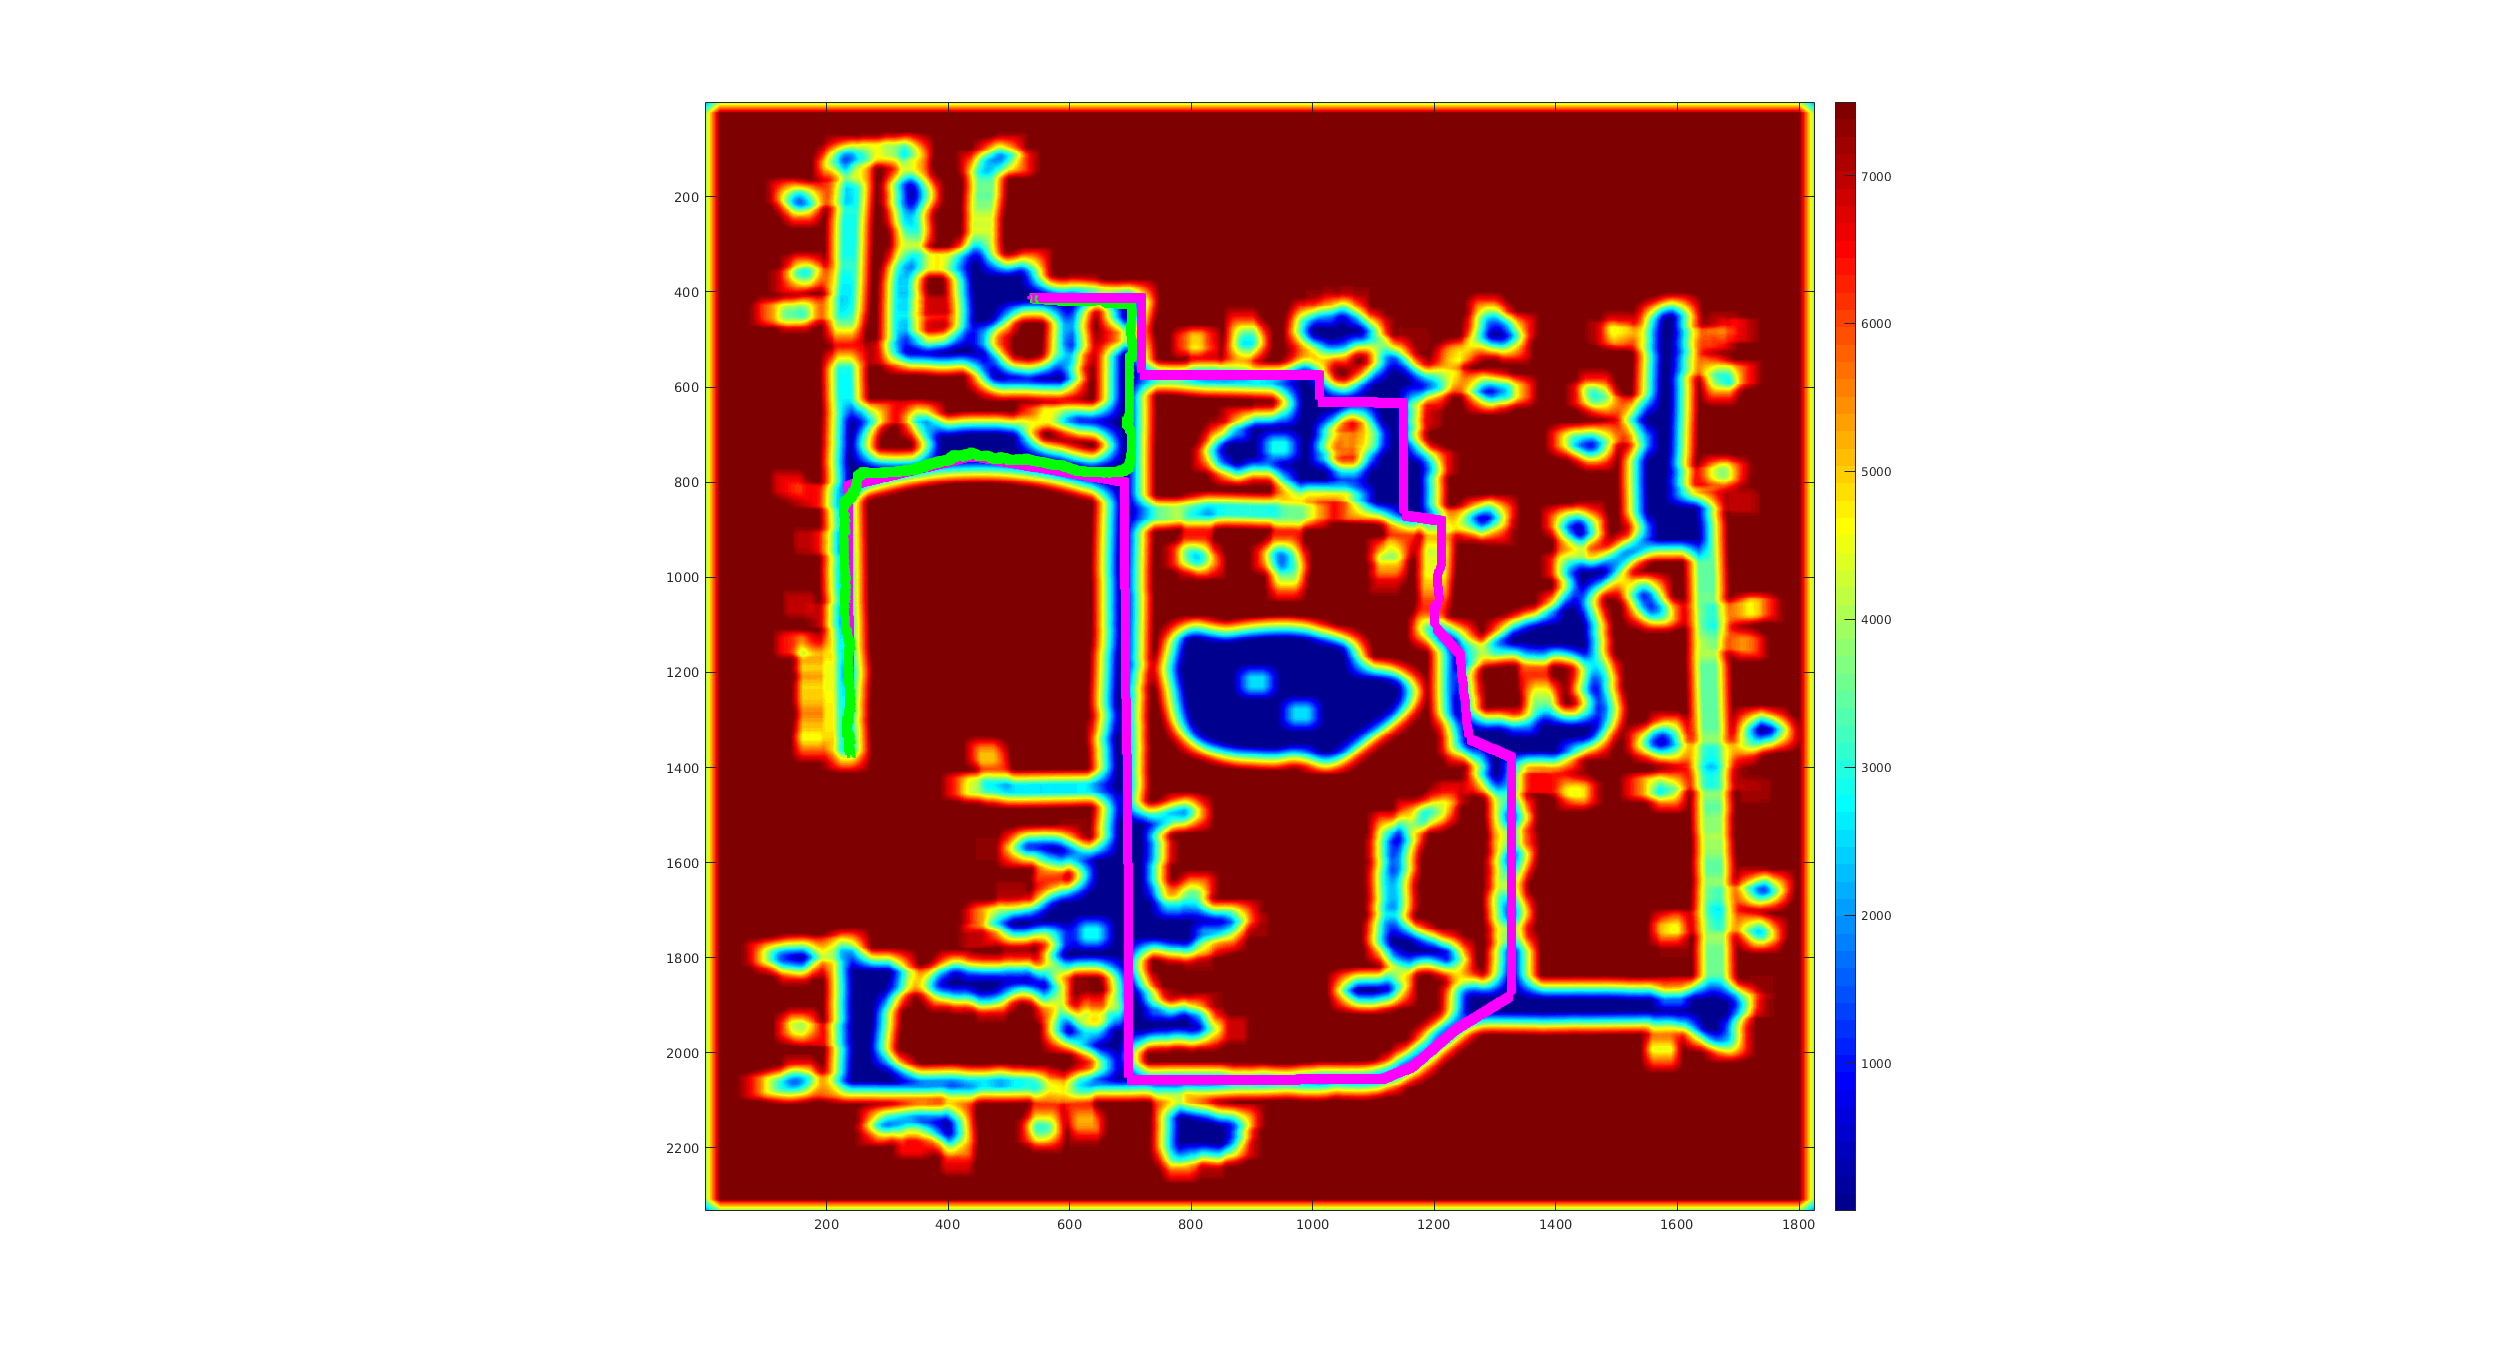
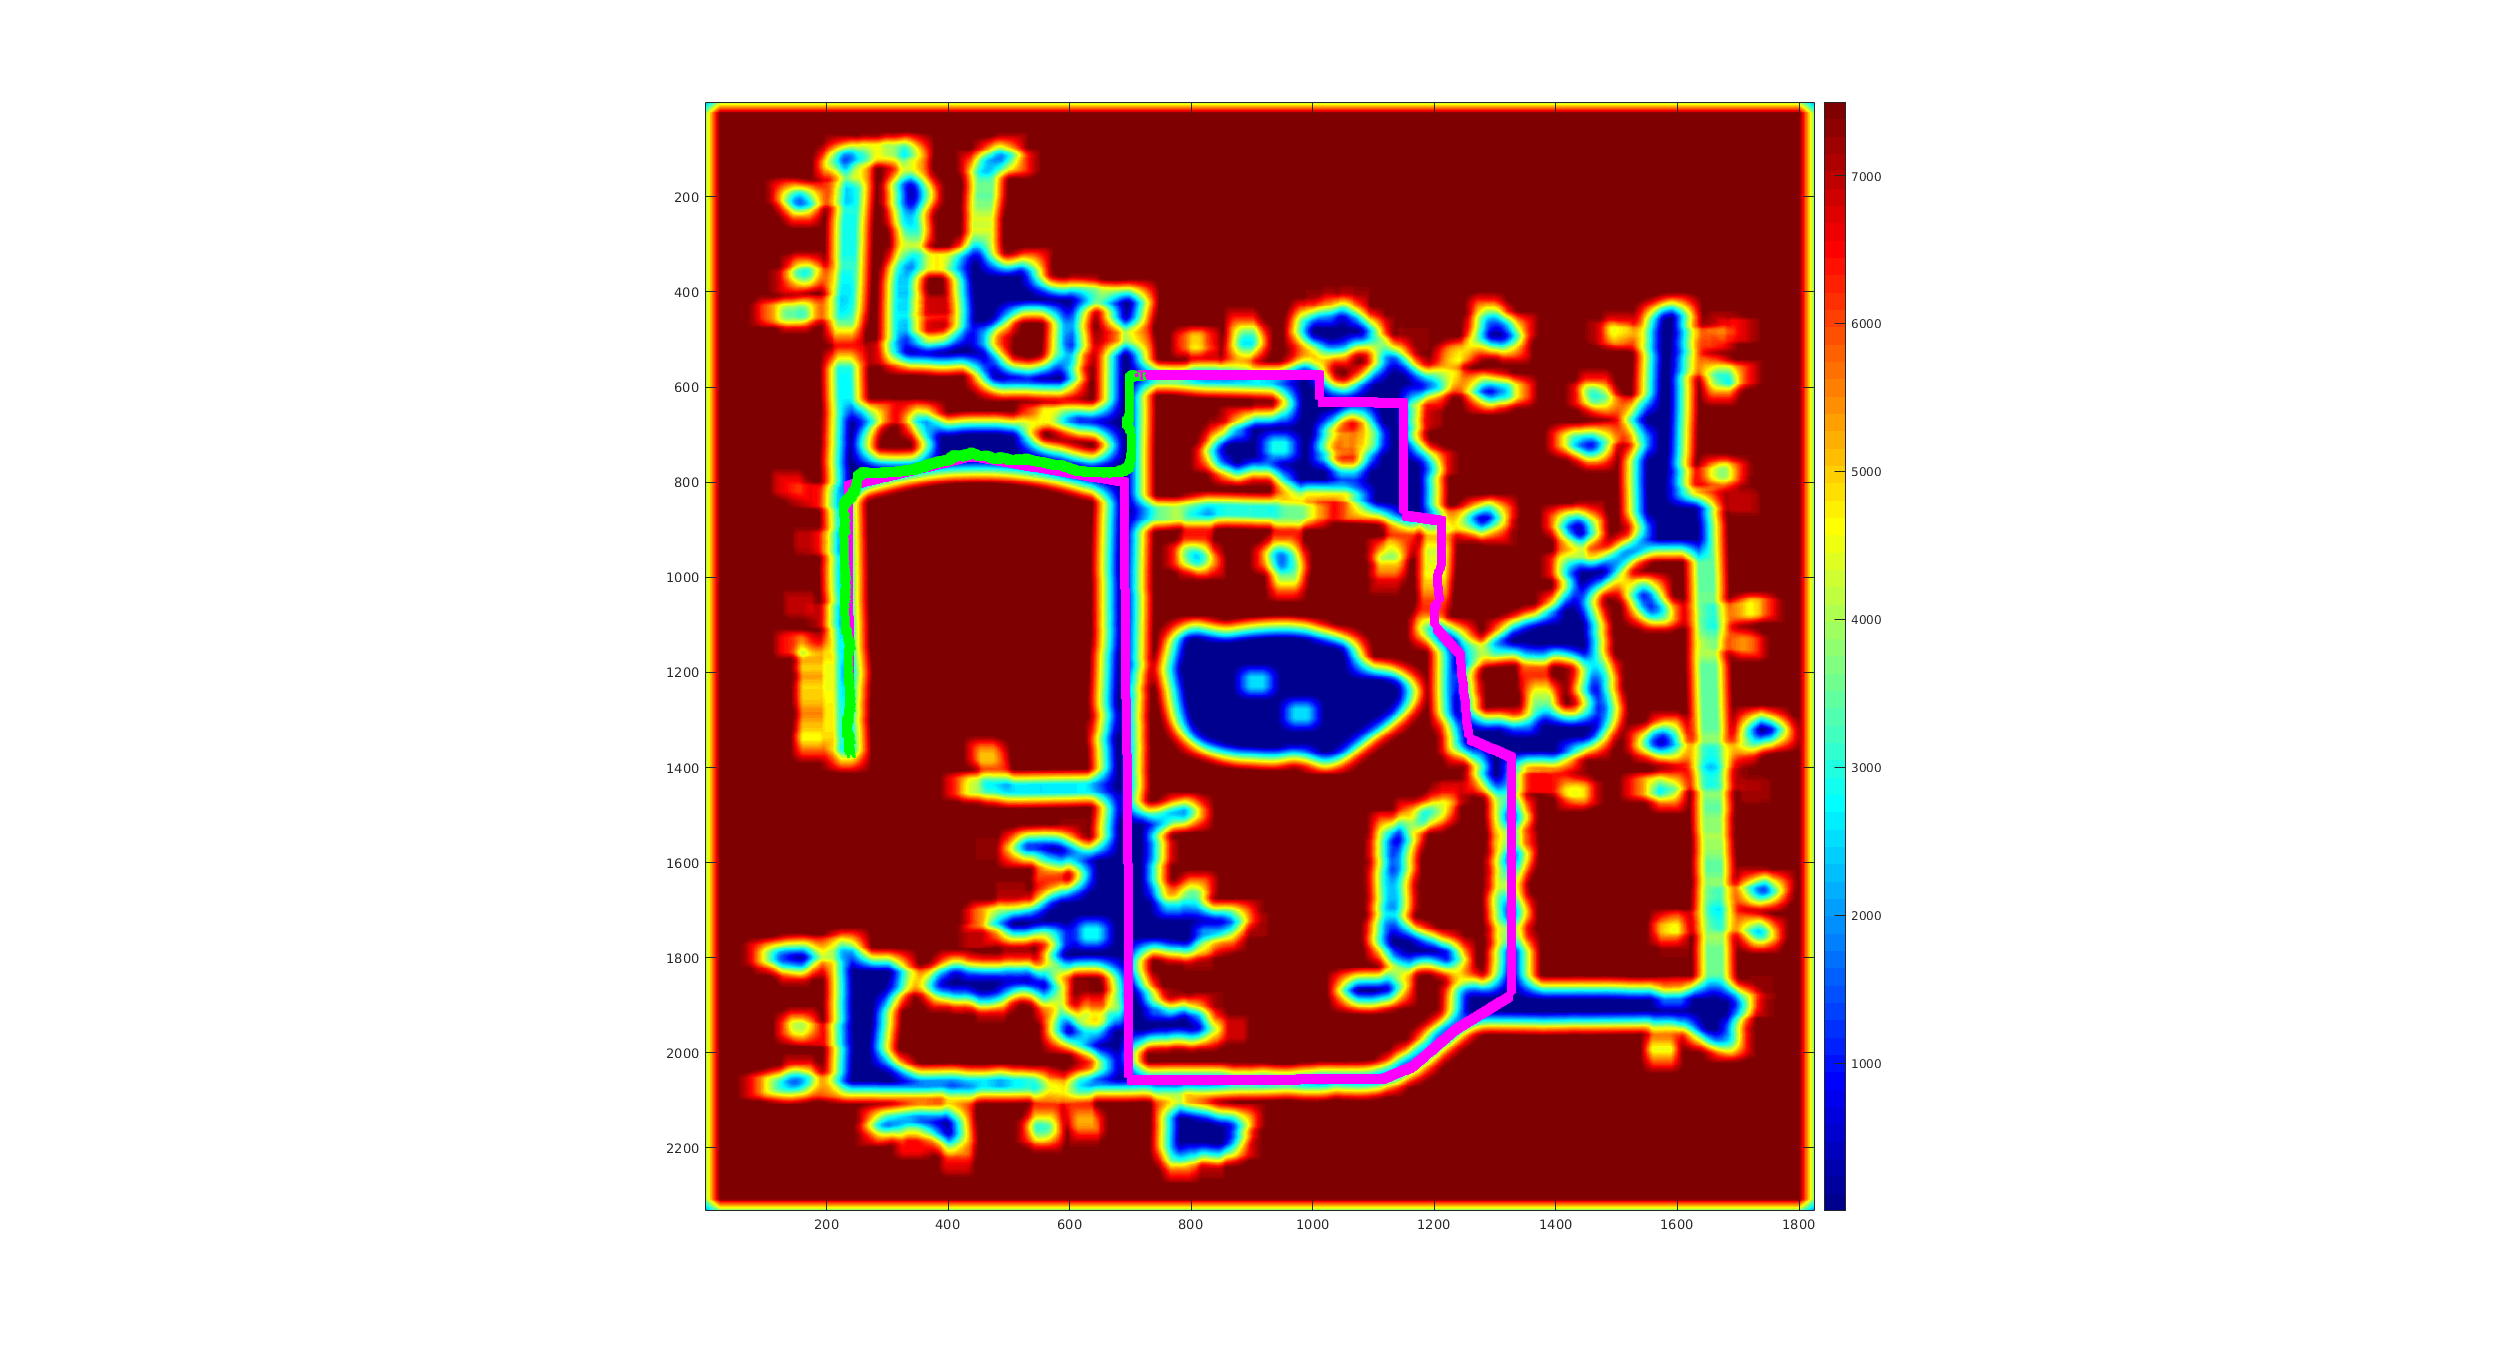
Optimize waiting position to be the lowest cost cell

Changed region(s): [[0.7098, 0.0617, 0.7715, 0.8949], [0.4012, 0.216, 0.4629, 0.2777]]

diff --git a/planner.cpp b/planner.cpp
@@ -61,7 +61,8 @@ static void planner(
     int target_y = targetposeY - 1;
 
     static Dijkstra dijkstra;
-    static std::vector<std::pair<int, int>> best_path;
+    static Dijkstra::Path best_path;
+    // static std::vector<std::pair<int, int>> best_path;
 
     if (!dijkstra.isInitialized()) {
         // run this for once only, in the very beginning
@@ -78,13 +79,13 @@ static void planner(
 
         // load the targe trajectory
         std::vector<std::pair<int, int>> target_trajectory;
-        mexPrintf("Target steps: %d\n", target_steps);
+        // mexPrintf("Target steps: %d\n", target_steps);
         for (int i=0; i<target_steps; ++i) {
             int x = (int) target_traj[i] - 1;
             int y = (int) target_traj[i + target_steps] - 1;
             target_trajectory.push_back(std::make_pair(x, y));
         }
-        mexPrintf("Trajectory size: %d\n", target_trajectory.size());
+        // mexPrintf("Trajectory size: %d\n", target_trajectory.size());
 
         dijkstra.initTargetTrajectory(target_trajectory);
         mexPrintf("Target trajectory size: %d\n", dijkstra.target_trajectory.size());
@@ -95,23 +96,82 @@ static void planner(
 
         dijkstra.search();
 
-        mexPrintf("Evaluated path size: %d\n", dijkstra.evaluated_paths.size());
-        best_path = dijkstra.evaluated_paths.begin()->second.path;
+        // mexPrintf("Evaluated path size: %d\n", dijkstra.evaluated_paths.size());
+
+        best_path = dijkstra.evaluated_paths.begin()->second;
+        // for (const auto& p : best_path.trajectory) {
+        //     mexPrintf("Coordinate: %d, %d\n", p.first, p.second);
+        // }
+        mexPrintf("Path cost: %d\n", best_path.cost); 
+        mexPrintf("Waiting time: %d\n", best_path.wait_time);
+        // mexPrintf("Index: %d\n", best_path.least_cost_index); 
+        mexPrintf("Waiting point: (%d, %d)\n", best_path.least_cost_coordinate.first, best_path.least_cost_coordinate.second); 
+
+        mexPrintf("Starting point cost: %d\n", dijkstra.map[robot_x][robot_y]);
+        mexPrintf("Waiting point cost: %d\n", dijkstra.map[best_path.least_cost_coordinate.first][best_path.least_cost_coordinate.second]);
+        // mexPrintf("Least cost: %d\n", dijkstra.map[709][574]);
+        // mexPrintf("Least cost: %d\n", dijkstra.map[693][575]); 
+        // auto pair = std::make_pair(709, 574);
+        // mexPrintf("Target arrival time: %d\n", dijkstra.target_trajectory.find(pair)->second);
     }
 
-    static int counter = 0;
-    int next_x, next_y;
+    auto best_trajectory = best_path.trajectory;
 
-    int path_size = best_path.size();
-    // mexPrintf("Best path size: %d\n", path_size);
-    if (counter >= path_size) {
-        next_x = best_path[0].first;
-        next_y = best_path[0].second;
-    } else {
-        next_x = best_path[path_size - counter - 1].first;
-        next_y = best_path[path_size - counter - 1].second;
+    // mexPrintf("Current time: %d\n", curr_time);
+    static int counter = 0;
+    int initial_plan_time = 0;
+    if (curr_time - counter > 1) {
+        initial_plan_time = curr_time - counter;
+    }
+
+    static bool already_trimmed = false;
+
+    if (initial_plan_time > 0 && !already_trimmed) {
+        mexPrintf("Initial planning time: %d\n", initial_plan_time);
+        auto itr = dijkstra.evaluated_paths.begin();
+        while (itr->second.wait_time <= initial_plan_time) {
+            itr++;
+            mexPrintf("Path changed\n");
+        }
+        best_path = itr->second;
+        // for (const auto& p : best_path.trajectory) {
+        //     mexPrintf("Coordinate: %d, %d\n", p.first, p.second);
+        // }
+        mexPrintf("Initial planning takes too long, shrinking waiting time and trimming path...\n"
+
+        mexPrintf("Path size before trimming: %d\n", best_path.trajectory.size());
+        int trimmed_time = initial_plan_time;
+        if (best_path.wait_time >= initial_plan_time) {
+            best_path.trajectory.erase(best_path.trajectory.begin() + best_path.least_cost_index, best_path.trajectory.begin() + best_path.least_cost_index + trimmed_time);
+        }
+        // for (const auto& p : best_path.trajectory) {
+        //     mexPrintf("Coordinate: %d, %d\n", p.first, p.second);
+        // }
+        mexPrintf("Path size after trimming: %d\n", best_path.trajectory.size());
+
+        best_trajectory = best_path.trajectory;
+        already_trimmed = true;
     }
     
+
+    int next_x, next_y;
+
+    int path_size = best_trajectory.size();
+
+    // mexPrintf("Best path size: %d\n", path_size);
+    // if (counter >= path_size) {
+    //     next_x = best_path[0].first;
+    //     next_y = best_path[0].second;
+    // } else {
+    //     next_x = best_path[path_size - counter - 1].first;
+    //     next_y = best_path[path_size - counter - 1].second;
+    // }
+    int i = std::max(0, path_size - counter - 1);
+
+    next_x = best_trajectory[i].first;
+    next_y = best_trajectory[i].second;
+    // mexPrintf("Coordinate: %d, %d\n", next_x, next_y);
+    // mexPrintf("Coordinate: %d, %d\n", best_path[0].first, best_path[0].second);
     counter++;
 
     // convert to 1-indexed

diff --git a/dijkstra.cpp b/dijkstra.cpp
@@ -91,7 +91,13 @@ Dijkstra::Path Dijkstra::findPath(int x0, int y0) {
     int y = y0;
 
     path.cost = closed_list.at(std::make_pair(x, y)).cost;
-    path.path.push_back(std::make_pair(x, y));
+    path.least_cost_coordinate = std::make_pair(x, y);
+
+    int index = 0;
+    path.least_cost_index = index;
+    int least_cost = map[x][y];
+
+    path.trajectory.push_back(std::make_pair(x, y));
 
     while (x != start_x || y != start_y) {
         if (!isInClosedList(x, y)) {
@@ -107,11 +113,24 @@ Dijkstra::Path Dijkstra::findPath(int x0, int y0) {
         x = px;
         y = py;
 
-        path.path.push_back(std::make_pair(x, y));
+        index++;
+        if (isValid(x, y)) {
+            if (map[x][y] < least_cost) {
+                path.least_cost_coordinate.first = x;
+                path.least_cost_coordinate.second = y;
+                least_cost = map[x][y];
+                path.least_cost_index = index;
+            }
+            path.trajectory.push_back(std::make_pair(x, y));
+        }
+        else {
+            // mexPrintf("Invalid! \n");
+        }
+    
     }
 
-    path.length = path.path.size();
-    // mexPrintf("path length %d\n", path.length);
+    path.length = path.trajectory.size();
+
     return path;
 }
 
@@ -131,19 +150,33 @@ void Dijkstra::generatePath() {
             continue;
         }
 
-        const auto& path = findPath(x, y);
+        auto path = findPath(x, y);
         if (path.cost == -1) {
             // invalid path, skip
             continue;
         }
         int wait_time = target_arrival_time - path.length;
         if (wait_time > 1) {
-            evaluated_paths.insert({path.cost + wait_time * map[x][y], path});
+            // find the cell with least cost on this trajectory (preferably closer to the last point on this trajectory)
+            // interpolate the path by inserting a "wait time"
+            // so we wait at the cell with least cost
+            // then when it's about time, start moving towards the goal
+            path.wait_time = wait_time;
+            optimizePath(path);
+            evaluated_paths.insert({path.cost + wait_time * map[path.least_cost_coordinate.first][path.least_cost_coordinate.second], path});
         }
 
     }
 
 }
+
+void Dijkstra::optimizePath(Path& path) {
+
+    auto coordinate = path.least_cost_coordinate;
+    auto itr = path.trajectory.insert(path.trajectory.begin() + path.least_cost_index, path.wait_time, coordinate);
+    // mexPrintf("Optimized path size: %d\n", path.trajectory.size());
+}
+
 
 void Dijkstra::search() {
 

diff --git a/dijkstra.h b/dijkstra.h
@@ -16,9 +16,13 @@ class Dijkstra {
     };
 
     struct Path {
-        std::vector<std::pair<int, int>> path;
+        std::vector<std::pair<int, int>> trajectory;
         int length;
         int cost;
+
+        int least_cost_index;
+        std::pair<int, int> least_cost_coordinate;
+        int wait_time;
     };
 
     struct compareCost {
@@ -51,6 +55,7 @@ class Dijkstra {
     Cell extractFromOpenList();
 
     Path findPath(int x, int y);
+    void optimizePath(Path& path);
 
     int start_x, start_y;
 
